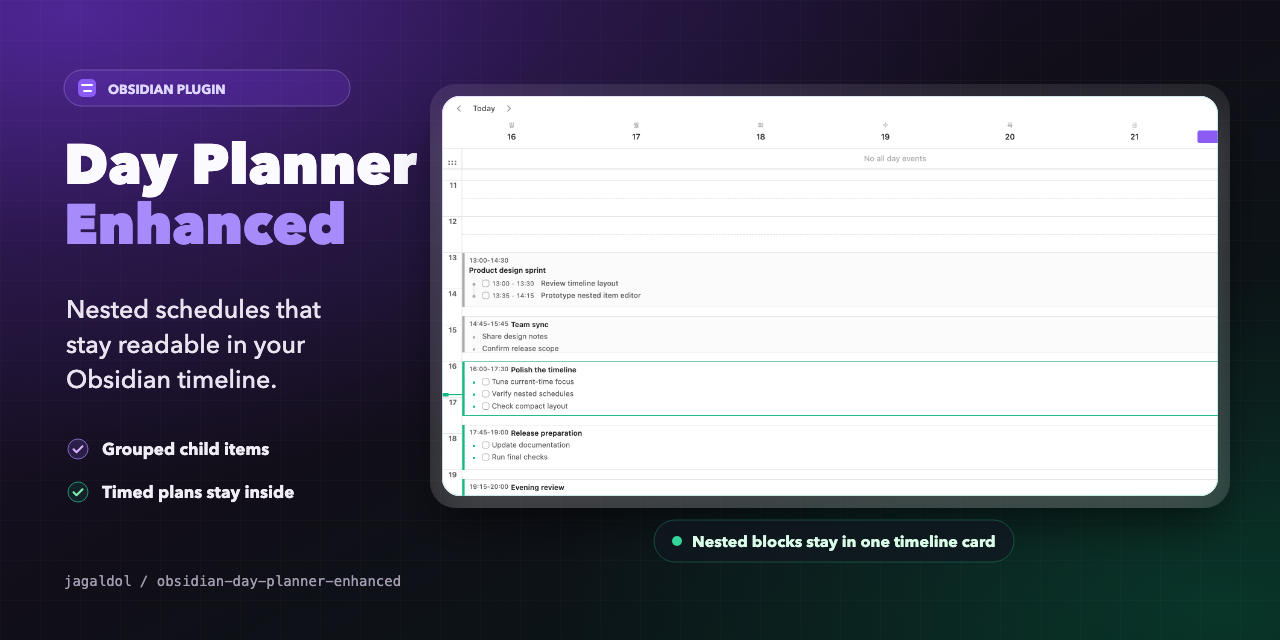
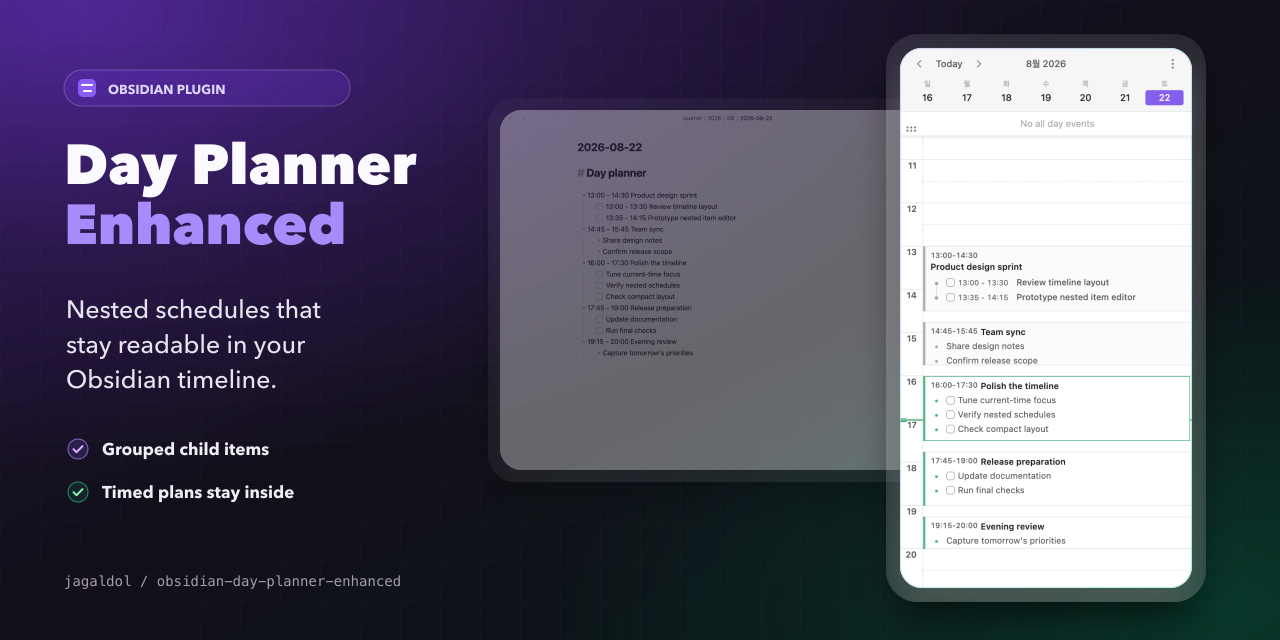
docs: showcase the timeline sidebar

diff --git a/README.md b/README.md
@@ -11,9 +11,9 @@ Day Planner Enhanced is an [Obsidian](https://obsidian.md/) community plugin for
 
 [Install from Obsidian](https://obsidian.md/plugins?id=day-planner-enhanced) · [Latest release](https://github.com/jagaldol/obsidian-day-planner-enhanced/releases/latest) · [Changelog](./CHANGELOG.md) · [Report an issue](https://github.com/jagaldol/obsidian-day-planner-enhanced/issues)
 
-<img src="./assets/timeline-nested-schedule-demo.png" alt="Day Planner Enhanced timeline with a weekday strip, muted past blocks, a green current-time line, and nested child items grouped inside their parent schedules" width="100%">
+<img src="./assets/social-preview.png" alt="Day Planner Enhanced with readable nested schedules in a narrow Obsidian timeline sidebar" width="100%">
 
-<p align="center"><em>Past plans stay muted, the current block stays in focus, and nested schedules keep their structure.</em></p>
+<p align="center"><em>Nested schedules stay readable in the narrow sidebar where the timeline usually lives.</em></p>
 
 ## Highlights
 
@@ -30,6 +30,10 @@ Day Planner Enhanced keeps the original Day Planner workflow, then adds tools fo
 ### 1. Nested schedules stay grouped in the timeline
 
 Timed and untimed child items render inside the parent timeline block instead of appearing again as separate Timeline or All Day entries. A work block can keep its meetings, breaks, and context notes together.
+
+<img src="./assets/timeline-nested-schedule-demo.png" alt="Day Planner Enhanced narrow timeline sidebar beside a daily note, with muted past blocks, a green current-time line, and nested child items grouped inside their parent schedules" width="100%">
+
+<p align="center"><em>Plan in Markdown on the left; keep the day, current-time focus, and nested structure visible in the sidebar.</em></p>
 
 <img src="./assets/day-planner-enhanced-ui-changes.png" alt="Day Planner Enhanced UI comparison showing nested schedule timeline improvements" width="100%">
 
